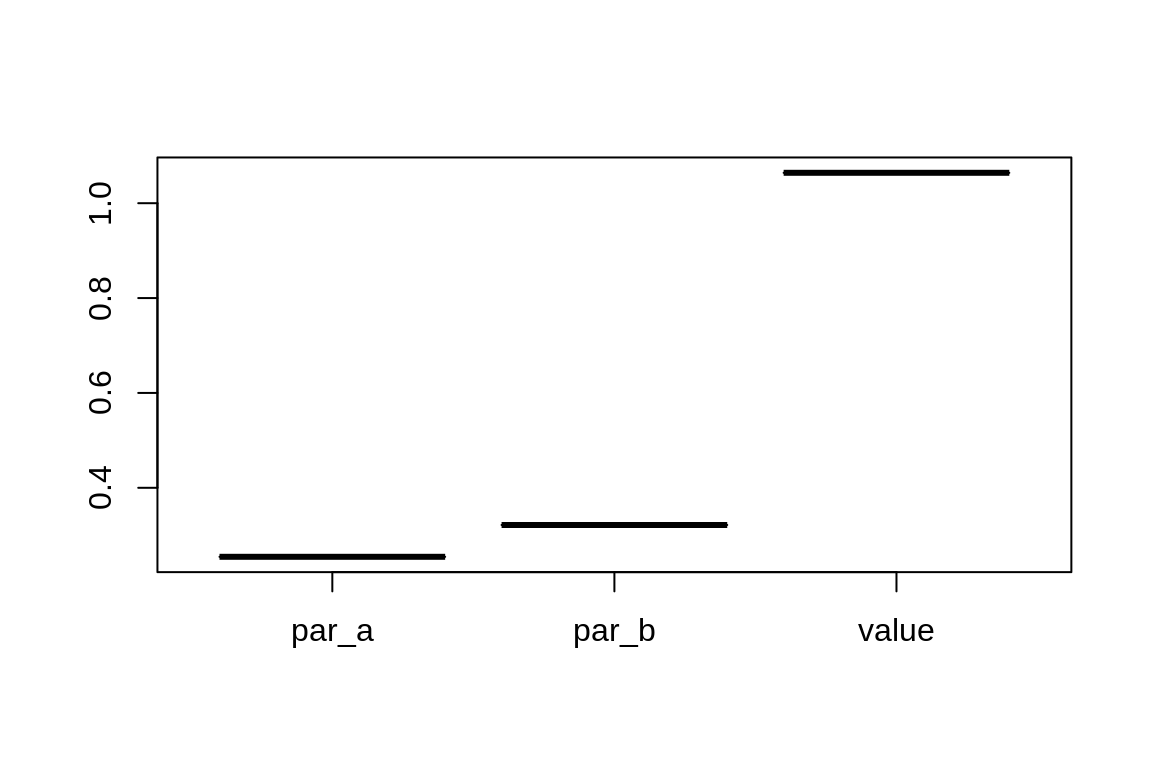
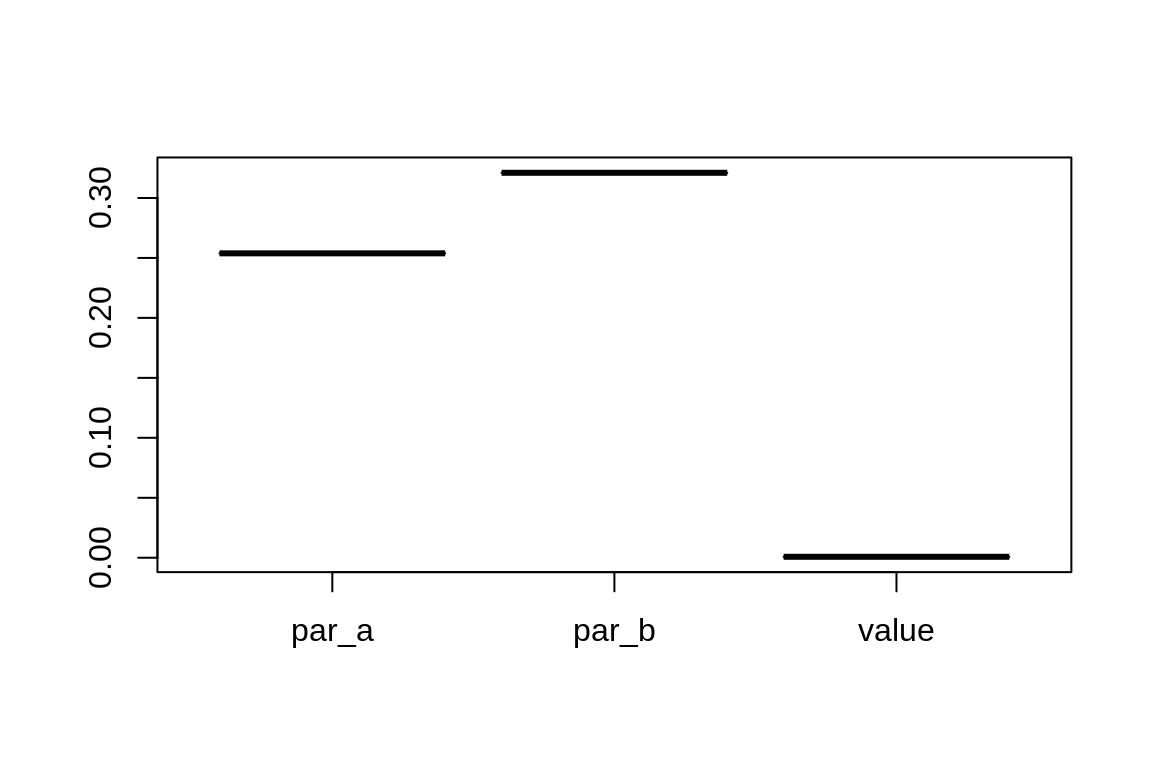
Update stats (55)

diff --git a/articles/edma03-parametric.html b/articles/edma03-parametric.html
@@ -203,15 +203,15 @@
 <p>We can compare the estimates with our known parameters, because we used simulation, thus we know the truth. This is not the case for real cases, but this way we can check if our methods work. These are the individual parameters that make up the SigmaK matrix:</p>
 <div class="sourceCode" id="cb9"><pre class="sourceCode r"><code class="sourceCode r"><a class="sourceLine" id="cb9-1" data-line-number="1"><span class="kw"><a href="https://rdrr.io/r/base/cbind.html">cbind</a></span>(<span class="dt">true=</span>parm, <span class="dt">est=</span>o<span class="op">$</span>results<span class="op">$</span>par)</a>
 <a class="sourceLine" id="cb9-2" data-line-number="2"><span class="co">#&gt;   true       est</span></a>
-<a class="sourceLine" id="cb9-3" data-line-number="3"><span class="co">#&gt; a 0.25 0.2545125</span></a>
-<a class="sourceLine" id="cb9-4" data-line-number="4"><span class="co">#&gt; b 0.35 0.3216170</span></a></code></pre></div>
+<a class="sourceLine" id="cb9-3" data-line-number="3"><span class="co">#&gt; a 0.25 0.2539084</span></a>
+<a class="sourceLine" id="cb9-4" data-line-number="4"><span class="co">#&gt; b 0.35 0.3209651</span></a></code></pre></div>
 <p>And this is our estimated SigmaK matrix:</p>
 <div class="sourceCode" id="cb10"><pre class="sourceCode r"><code class="sourceCode r"><a class="sourceLine" id="cb10-1" data-line-number="1"><span class="kw"><a href="https://rdrr.io/pkg/EDMAinR/man/SigmaK_fit.html">SigmaK</a></span>(o)</a>
-<a class="sourceLine" id="cb10-2" data-line-number="2"><span class="co">#&gt;           L1        L2       L3       L4</span></a>
-<a class="sourceLine" id="cb10-3" data-line-number="3"><span class="co">#&gt; L1 0.2545125 0.0000000 0.000000 0.000000</span></a>
-<a class="sourceLine" id="cb10-4" data-line-number="4"><span class="co">#&gt; L2 0.0000000 0.2545125 0.000000 0.000000</span></a>
-<a class="sourceLine" id="cb10-5" data-line-number="5"><span class="co">#&gt; L3 0.0000000 0.0000000 0.321617 0.000000</span></a>
-<a class="sourceLine" id="cb10-6" data-line-number="6"><span class="co">#&gt; L4 0.0000000 0.0000000 0.000000 0.321617</span></a></code></pre></div>
+<a class="sourceLine" id="cb10-2" data-line-number="2"><span class="co">#&gt;           L1        L2        L3        L4</span></a>
+<a class="sourceLine" id="cb10-3" data-line-number="3"><span class="co">#&gt; L1 0.2539084 0.0000000 0.0000000 0.0000000</span></a>
+<a class="sourceLine" id="cb10-4" data-line-number="4"><span class="co">#&gt; L2 0.0000000 0.2539084 0.0000000 0.0000000</span></a>
+<a class="sourceLine" id="cb10-5" data-line-number="5"><span class="co">#&gt; L3 0.0000000 0.0000000 0.3209651 0.0000000</span></a>
+<a class="sourceLine" id="cb10-6" data-line-number="6"><span class="co">#&gt; L4 0.0000000 0.0000000 0.0000000 0.3209651</span></a></code></pre></div>
 </div>
 <div id="sensitivity-analysis" class="section level2">
 <h2 class="hasAnchor">
@@ -220,27 +220,27 @@
 <p>To check the sensitivity using the aptly named <code>sensitivity</code> function. This function re-estimates the SigmaK matrix multiple times with random starting values for numerical optimization. The result is a matrix with estimates of each parameter as columns. The last column contains the value of the loss function (used in the optimization) evaluated at the parameter values in that row. The rows represent the original estimates and the 10 re-estimated sets of values. The number of replicates can be increased further:</p>
 <div class="sourceCode" id="cb11"><pre class="sourceCode r"><code class="sourceCode r"><a class="sourceLine" id="cb11-1" data-line-number="1">s &lt;-<span class="st"> </span><span class="kw"><a href="https://rdrr.io/pkg/EDMAinR/man/SigmaK_fit.html">sensitivity</a></span>(o, <span class="dv">10</span>)</a>
 <a class="sourceLine" id="cb11-2" data-line-number="2">s</a>
-<a class="sourceLine" id="cb11-3" data-line-number="3"><span class="co">#&gt;           par_a     par_b    value</span></a>
-<a class="sourceLine" id="cb11-4" data-line-number="4"><span class="co">#&gt;  [1,] 0.2545125 0.3216170 1.064001</span></a>
-<a class="sourceLine" id="cb11-5" data-line-number="5"><span class="co">#&gt;  [2,] 0.2545119 0.3216142 1.064062</span></a>
-<a class="sourceLine" id="cb11-6" data-line-number="6"><span class="co">#&gt;  [3,] 0.2545122 0.3216162 1.064002</span></a>
-<a class="sourceLine" id="cb11-7" data-line-number="7"><span class="co">#&gt;  [4,] 0.2545123 0.3216167 1.063986</span></a>
-<a class="sourceLine" id="cb11-8" data-line-number="8"><span class="co">#&gt;  [5,] 0.2545122 0.3216163 1.063999</span></a>
-<a class="sourceLine" id="cb11-9" data-line-number="9"><span class="co">#&gt;  [6,] 0.2545116 0.3216151 1.064047</span></a>
-<a class="sourceLine" id="cb11-10" data-line-number="10"><span class="co">#&gt;  [7,] 0.2545116 0.3216150 1.064049</span></a>
-<a class="sourceLine" id="cb11-11" data-line-number="11"><span class="co">#&gt;  [8,] 0.2545114 0.3216167 1.064008</span></a>
-<a class="sourceLine" id="cb11-12" data-line-number="12"><span class="co">#&gt;  [9,] 0.2545121 0.3216168 1.063997</span></a>
-<a class="sourceLine" id="cb11-13" data-line-number="13"><span class="co">#&gt; [10,] 0.2545122 0.3216167 1.063989</span></a>
-<a class="sourceLine" id="cb11-14" data-line-number="14"><span class="co">#&gt; [11,] 0.2545129 0.3216173 1.064020</span></a></code></pre></div>
+<a class="sourceLine" id="cb11-3" data-line-number="3"><span class="co">#&gt;           par_a     par_b        value</span></a>
+<a class="sourceLine" id="cb11-4" data-line-number="4"><span class="co">#&gt;  [1,] 0.2539084 0.3209651 0.0007728197</span></a>
+<a class="sourceLine" id="cb11-5" data-line-number="5"><span class="co">#&gt;  [2,] 0.2538729 0.3210012 0.0007728189</span></a>
+<a class="sourceLine" id="cb11-6" data-line-number="6"><span class="co">#&gt;  [3,] 0.2538583 0.3209854 0.0007728177</span></a>
+<a class="sourceLine" id="cb11-7" data-line-number="7"><span class="co">#&gt;  [4,] 0.2538704 0.3209634 0.0007728175</span></a>
+<a class="sourceLine" id="cb11-8" data-line-number="8"><span class="co">#&gt;  [5,] 0.2538549 0.3209625 0.0007728176</span></a>
+<a class="sourceLine" id="cb11-9" data-line-number="9"><span class="co">#&gt;  [6,] 0.2538258 0.3209865 0.0007728194</span></a>
+<a class="sourceLine" id="cb11-10" data-line-number="10"><span class="co">#&gt;  [7,] 0.2538159 0.3209421 0.0007728220</span></a>
+<a class="sourceLine" id="cb11-11" data-line-number="11"><span class="co">#&gt;  [8,] 0.2538349 0.3209740 0.0007728185</span></a>
+<a class="sourceLine" id="cb11-12" data-line-number="12"><span class="co">#&gt;  [9,] 0.2538266 0.3209903 0.0007728194</span></a>
+<a class="sourceLine" id="cb11-13" data-line-number="13"><span class="co">#&gt; [10,] 0.2538954 0.3209989 0.0007728202</span></a>
+<a class="sourceLine" id="cb11-14" data-line-number="14"><span class="co">#&gt; [11,] 0.2538312 0.3210041 0.0007728198</span></a></code></pre></div>
 <p>When we look at the results and see that the estimates are very similar (5th digit differences), this indicates that the parameters are identifiable. We can do this via the <code>summary</code> function or by looking at the <code>boxplot</code>:</p>
 <div class="sourceCode" id="cb12"><pre class="sourceCode r"><code class="sourceCode r"><a class="sourceLine" id="cb12-1" data-line-number="1"><span class="kw"><a href="https://rdrr.io/r/base/summary.html">summary</a></span>(s)</a>
-<a class="sourceLine" id="cb12-2" data-line-number="2"><span class="co">#&gt;      par_a            par_b            value      </span></a>
-<a class="sourceLine" id="cb12-3" data-line-number="3"><span class="co">#&gt;  Min.   :0.2545   Min.   :0.3216   Min.   :1.064  </span></a>
-<a class="sourceLine" id="cb12-4" data-line-number="4"><span class="co">#&gt;  1st Qu.:0.2545   1st Qu.:0.3216   1st Qu.:1.064  </span></a>
-<a class="sourceLine" id="cb12-5" data-line-number="5"><span class="co">#&gt;  Median :0.2545   Median :0.3216   Median :1.064  </span></a>
-<a class="sourceLine" id="cb12-6" data-line-number="6"><span class="co">#&gt;  Mean   :0.2545   Mean   :0.3216   Mean   :1.064  </span></a>
-<a class="sourceLine" id="cb12-7" data-line-number="7"><span class="co">#&gt;  3rd Qu.:0.2545   3rd Qu.:0.3216   3rd Qu.:1.064  </span></a>
-<a class="sourceLine" id="cb12-8" data-line-number="8"><span class="co">#&gt;  Max.   :0.2545   Max.   :0.3216   Max.   :1.064</span></a>
+<a class="sourceLine" id="cb12-2" data-line-number="2"><span class="co">#&gt;      par_a            par_b            value          </span></a>
+<a class="sourceLine" id="cb12-3" data-line-number="3"><span class="co">#&gt;  Min.   :0.2538   Min.   :0.3209   Min.   :0.0007728  </span></a>
+<a class="sourceLine" id="cb12-4" data-line-number="4"><span class="co">#&gt;  1st Qu.:0.2538   1st Qu.:0.3210   1st Qu.:0.0007728  </span></a>
+<a class="sourceLine" id="cb12-5" data-line-number="5"><span class="co">#&gt;  Median :0.2539   Median :0.3210   Median :0.0007728  </span></a>
+<a class="sourceLine" id="cb12-6" data-line-number="6"><span class="co">#&gt;  Mean   :0.2539   Mean   :0.3210   Mean   :0.0007728  </span></a>
+<a class="sourceLine" id="cb12-7" data-line-number="7"><span class="co">#&gt;  3rd Qu.:0.2539   3rd Qu.:0.3210   3rd Qu.:0.0007728  </span></a>
+<a class="sourceLine" id="cb12-8" data-line-number="8"><span class="co">#&gt;  Max.   :0.2539   Max.   :0.3210   Max.   :0.0007728</span></a>
 <a class="sourceLine" id="cb12-9" data-line-number="9"><span class="kw"><a href="https://rdrr.io/r/graphics/boxplot.html">boxplot</a></span>(s)</a></code></pre></div>
 <p><img src="edma03-parametric_files/figure-html/unnamed-chunk-12-1.png" width="576"></p>
 </div>
@@ -282,37 +282,37 @@
 <p>The estimates are pretty far off from the true values:</p>
 <div class="sourceCode" id="cb17"><pre class="sourceCode r"><code class="sourceCode r"><a class="sourceLine" id="cb17-1" data-line-number="1"><span class="kw"><a href="https://rdrr.io/r/base/cbind.html">cbind</a></span>(<span class="dt">true=</span>parm, <span class="dt">est=</span>o<span class="op">$</span>results<span class="op">$</span>par)</a>
 <a class="sourceLine" id="cb17-2" data-line-number="2"><span class="co">#&gt;   true       est</span></a>
-<a class="sourceLine" id="cb17-3" data-line-number="3"><span class="co">#&gt; a 0.25 0.2923992</span></a>
-<a class="sourceLine" id="cb17-4" data-line-number="4"><span class="co">#&gt; b 0.07 0.1156618</span></a>
+<a class="sourceLine" id="cb17-3" data-line-number="3"><span class="co">#&gt; a 0.25 0.2871702</span></a>
+<a class="sourceLine" id="cb17-4" data-line-number="4"><span class="co">#&gt; b 0.07 0.1096243</span></a>
 <a class="sourceLine" id="cb17-5" data-line-number="5"><span class="kw"><a href="https://rdrr.io/pkg/EDMAinR/man/SigmaK_fit.html">SigmaK</a></span>(o)</a>
 <a class="sourceLine" id="cb17-6" data-line-number="6"><span class="co">#&gt;           L1        L2        L3        L4</span></a>
-<a class="sourceLine" id="cb17-7" data-line-number="7"><span class="co">#&gt; L1 0.2923992 0.1156618 0.1156618 0.1156618</span></a>
-<a class="sourceLine" id="cb17-8" data-line-number="8"><span class="co">#&gt; L2 0.1156618 0.2923992 0.1156618 0.1156618</span></a>
-<a class="sourceLine" id="cb17-9" data-line-number="9"><span class="co">#&gt; L3 0.1156618 0.1156618 0.2923992 0.1156618</span></a>
-<a class="sourceLine" id="cb17-10" data-line-number="10"><span class="co">#&gt; L4 0.1156618 0.1156618 0.1156618 0.2923992</span></a></code></pre></div>
+<a class="sourceLine" id="cb17-7" data-line-number="7"><span class="co">#&gt; L1 0.2871702 0.1096243 0.1096243 0.1096243</span></a>
+<a class="sourceLine" id="cb17-8" data-line-number="8"><span class="co">#&gt; L2 0.1096243 0.2871702 0.1096243 0.1096243</span></a>
+<a class="sourceLine" id="cb17-9" data-line-number="9"><span class="co">#&gt; L3 0.1096243 0.1096243 0.2871702 0.1096243</span></a>
+<a class="sourceLine" id="cb17-10" data-line-number="10"><span class="co">#&gt; L4 0.1096243 0.1096243 0.1096243 0.2871702</span></a></code></pre></div>
 <p>If we now do the sensitivity analysis, we see all kinds of estimates while all leading to the same loss function value. This a clear indication of non-estimability:</p>
 <div class="sourceCode" id="cb18"><pre class="sourceCode r"><code class="sourceCode r"><a class="sourceLine" id="cb18-1" data-line-number="1">s &lt;-<span class="st"> </span><span class="kw"><a href="https://rdrr.io/pkg/EDMAinR/man/SigmaK_fit.html">sensitivity</a></span>(o)</a>
 <a class="sourceLine" id="cb18-2" data-line-number="2">s</a>
-<a class="sourceLine" id="cb18-3" data-line-number="3"><span class="co">#&gt;           par_a       par_b     value</span></a>
-<a class="sourceLine" id="cb18-4" data-line-number="4"><span class="co">#&gt;  [1,] 0.2923992  0.11566176 0.6358414</span></a>
-<a class="sourceLine" id="cb18-5" data-line-number="5"><span class="co">#&gt;  [2,] 0.4636409  0.28690340 0.6358328</span></a>
-<a class="sourceLine" id="cb18-6" data-line-number="6"><span class="co">#&gt;  [3,] 0.1419210 -0.03481663 0.6358236</span></a>
-<a class="sourceLine" id="cb18-7" data-line-number="7"><span class="co">#&gt;  [4,] 0.1885673  0.01182971 0.6358236</span></a>
-<a class="sourceLine" id="cb18-8" data-line-number="8"><span class="co">#&gt;  [5,] 0.1964769  0.01973927 0.6358236</span></a>
-<a class="sourceLine" id="cb18-9" data-line-number="9"><span class="co">#&gt;  [6,] 0.1943816  0.01764399 0.6358236</span></a>
-<a class="sourceLine" id="cb18-10" data-line-number="10"><span class="co">#&gt;  [7,] 0.1203786 -0.05635896 0.6358249</span></a>
-<a class="sourceLine" id="cb18-11" data-line-number="11"><span class="co">#&gt;  [8,] 0.2623074  0.08556985 0.6358276</span></a>
-<a class="sourceLine" id="cb18-12" data-line-number="12"><span class="co">#&gt;  [9,] 0.3679950  0.19125757 0.6358373</span></a>
-<a class="sourceLine" id="cb18-13" data-line-number="13"><span class="co">#&gt; [10,] 0.1174071 -0.05933051 0.6358244</span></a>
-<a class="sourceLine" id="cb18-14" data-line-number="14"><span class="co">#&gt; [11,] 0.5896452  0.41290750 0.6358323</span></a>
+<a class="sourceLine" id="cb18-3" data-line-number="3"><span class="co">#&gt;           par_a       par_b        value</span></a>
+<a class="sourceLine" id="cb18-4" data-line-number="4"><span class="co">#&gt;  [1,] 0.2871702  0.10962428 0.0003358588</span></a>
+<a class="sourceLine" id="cb18-5" data-line-number="5"><span class="co">#&gt;  [2,] 0.4668093  0.28925612 0.0003358596</span></a>
+<a class="sourceLine" id="cb18-6" data-line-number="6"><span class="co">#&gt;  [3,] 0.1430023 -0.03452708 0.0003358583</span></a>
+<a class="sourceLine" id="cb18-7" data-line-number="7"><span class="co">#&gt;  [4,] 0.1883117  0.01077916 0.0003358582</span></a>
+<a class="sourceLine" id="cb18-8" data-line-number="8"><span class="co">#&gt;  [5,] 0.1958401  0.01830934 0.0003358582</span></a>
+<a class="sourceLine" id="cb18-9" data-line-number="9"><span class="co">#&gt;  [6,] 0.1949330  0.01739788 0.0003358583</span></a>
+<a class="sourceLine" id="cb18-10" data-line-number="10"><span class="co">#&gt;  [7,] 0.1184738 -0.05903101 0.0003358604</span></a>
+<a class="sourceLine" id="cb18-11" data-line-number="11"><span class="co">#&gt;  [8,] 0.2589918  0.08146353 0.0003358583</span></a>
+<a class="sourceLine" id="cb18-12" data-line-number="12"><span class="co">#&gt;  [9,] 0.3590700  0.18152654 0.0003358586</span></a>
+<a class="sourceLine" id="cb18-13" data-line-number="13"><span class="co">#&gt; [10,] 0.1187325 -0.05879193 0.0003358584</span></a>
+<a class="sourceLine" id="cb18-14" data-line-number="14"><span class="co">#&gt; [11,] 0.5828245  0.40531593 0.0003358599</span></a>
 <a class="sourceLine" id="cb18-15" data-line-number="15"><span class="kw"><a href="https://rdrr.io/r/base/summary.html">summary</a></span>(s)</a>
-<a class="sourceLine" id="cb18-16" data-line-number="16"><span class="co">#&gt;      par_a            par_b              value       </span></a>
-<a class="sourceLine" id="cb18-17" data-line-number="17"><span class="co">#&gt;  Min.   :0.1174   Min.   :-0.05933   Min.   :0.6358  </span></a>
-<a class="sourceLine" id="cb18-18" data-line-number="18"><span class="co">#&gt;  1st Qu.:0.1652   1st Qu.:-0.01149   1st Qu.:0.6358  </span></a>
-<a class="sourceLine" id="cb18-19" data-line-number="19"><span class="co">#&gt;  Median :0.1965   Median : 0.01974   Median :0.6358  </span></a>
-<a class="sourceLine" id="cb18-20" data-line-number="20"><span class="co">#&gt;  Mean   :0.2668   Mean   : 0.09009   Mean   :0.6358  </span></a>
-<a class="sourceLine" id="cb18-21" data-line-number="21"><span class="co">#&gt;  3rd Qu.:0.3302   3rd Qu.: 0.15346   3rd Qu.:0.6358  </span></a>
-<a class="sourceLine" id="cb18-22" data-line-number="22"><span class="co">#&gt;  Max.   :0.5896   Max.   : 0.41291   Max.   :0.6358</span></a>
+<a class="sourceLine" id="cb18-16" data-line-number="16"><span class="co">#&gt;      par_a            par_b              value          </span></a>
+<a class="sourceLine" id="cb18-17" data-line-number="17"><span class="co">#&gt;  Min.   :0.1185   Min.   :-0.05903   Min.   :0.0003359  </span></a>
+<a class="sourceLine" id="cb18-18" data-line-number="18"><span class="co">#&gt;  1st Qu.:0.1657   1st Qu.:-0.01187   1st Qu.:0.0003359  </span></a>
+<a class="sourceLine" id="cb18-19" data-line-number="19"><span class="co">#&gt;  Median :0.1958   Median : 0.01831   Median :0.0003359  </span></a>
+<a class="sourceLine" id="cb18-20" data-line-number="20"><span class="co">#&gt;  Mean   :0.2649   Mean   : 0.08739   Mean   :0.0003359  </span></a>
+<a class="sourceLine" id="cb18-21" data-line-number="21"><span class="co">#&gt;  3rd Qu.:0.3231   3rd Qu.: 0.14558   3rd Qu.:0.0003359  </span></a>
+<a class="sourceLine" id="cb18-22" data-line-number="22"><span class="co">#&gt;  Max.   :0.5828   Max.   : 0.40532   Max.   :0.0003359</span></a>
 <a class="sourceLine" id="cb18-23" data-line-number="23"><span class="kw"><a href="https://rdrr.io/r/graphics/boxplot.html">boxplot</a></span>(s)</a></code></pre></div>
 <p><img src="edma03-parametric_files/figure-html/unnamed-chunk-18-1.png" width="576"></p>
 </div>
@@ -326,6 +326,73 @@
 <li>use the <code>SigmaK_fit</code> to estimate SigmaK using the non-parametric fit and the pattern matrix,</li>
 <li>make sure the results are estimable by running <code>sensitivity</code> analysis.</li>
 </ol>
+</div>
+<div id="more-examples" class="section level2">
+<h2 class="hasAnchor">
+<a href="#more-examples" class="anchor"></a>More examples</h2>
+<div class="sourceCode" id="cb19"><pre class="sourceCode r"><code class="sourceCode r"><a class="sourceLine" id="cb19-1" data-line-number="1">parm &lt;-<span class="st"> </span><span class="kw"><a href="https://rdrr.io/r/base/c.html">c</a></span>(<span class="dt">a=</span><span class="fl">0.25</span>, <span class="dt">b=</span><span class="fl">0.07</span>, <span class="dt">c=</span><span class="fl">0.1</span>, <span class="dt">d=</span><span class="fl">0.15</span>)</a>
+<a class="sourceLine" id="cb19-2" data-line-number="2">m &lt;-<span class="st"> </span><span class="kw"><a href="https://rdrr.io/r/base/matrix.html">matrix</a></span>(<span class="kw"><a href="https://rdrr.io/r/base/c.html">c</a></span>(</a>
+<a class="sourceLine" id="cb19-3" data-line-number="3">    <span class="st">"a"</span>, <span class="ot">NA</span>, <span class="ot">NA</span>, <span class="ot">NA</span>,</a>
+<a class="sourceLine" id="cb19-4" data-line-number="4">    <span class="ot">NA</span>, <span class="st">"b"</span>, <span class="ot">NA</span>, <span class="ot">NA</span>,</a>
+<a class="sourceLine" id="cb19-5" data-line-number="5">    <span class="ot">NA</span>, <span class="ot">NA</span>, <span class="st">"c"</span>, <span class="ot">NA</span>,</a>
+<a class="sourceLine" id="cb19-6" data-line-number="6">    <span class="ot">NA</span>, <span class="ot">NA</span>, <span class="ot">NA</span>, <span class="st">"d"</span></a>
+<a class="sourceLine" id="cb19-7" data-line-number="7">), <span class="dv">4</span>, <span class="dv">4</span>, <span class="dt">byrow=</span><span class="ot">TRUE</span>)</a>
+<a class="sourceLine" id="cb19-8" data-line-number="8"></a>
+<a class="sourceLine" id="cb19-9" data-line-number="9">parm &lt;-<span class="st"> </span><span class="kw"><a href="https://rdrr.io/r/base/c.html">c</a></span>(<span class="dt">a=</span><span class="fl">0.25</span>)</a>
+<a class="sourceLine" id="cb19-10" data-line-number="10">m &lt;-<span class="st"> </span><span class="kw"><a href="https://rdrr.io/r/base/matrix.html">matrix</a></span>(<span class="kw"><a href="https://rdrr.io/r/base/c.html">c</a></span>(</a>
+<a class="sourceLine" id="cb19-11" data-line-number="11">    <span class="st">"a"</span>, <span class="ot">NA</span>, <span class="ot">NA</span>, <span class="ot">NA</span>,</a>
+<a class="sourceLine" id="cb19-12" data-line-number="12">    <span class="ot">NA</span>, <span class="st">"a"</span>, <span class="ot">NA</span>, <span class="ot">NA</span>,</a>
+<a class="sourceLine" id="cb19-13" data-line-number="13">    <span class="ot">NA</span>, <span class="ot">NA</span>, <span class="st">"a"</span>, <span class="ot">NA</span>,</a>
+<a class="sourceLine" id="cb19-14" data-line-number="14">    <span class="ot">NA</span>, <span class="ot">NA</span>, <span class="ot">NA</span>, <span class="st">"a"</span></a>
+<a class="sourceLine" id="cb19-15" data-line-number="15">), <span class="dv">4</span>, <span class="dv">4</span>, <span class="dt">byrow=</span><span class="ot">TRUE</span>)</a>
+<a class="sourceLine" id="cb19-16" data-line-number="16">SigmaK &lt;-<span class="st"> </span>EDMAinR<span class="op">:::</span><span class="kw">.vec2mat</span>(parm, EDMAinR<span class="op">:::</span><span class="kw">.mat2fac</span>(m))</a>
+<a class="sourceLine" id="cb19-17" data-line-number="17">SigmaK</a>
+<a class="sourceLine" id="cb19-18" data-line-number="18"><span class="co">#&gt;      [,1] [,2] [,3] [,4]</span></a>
+<a class="sourceLine" id="cb19-19" data-line-number="19"><span class="co">#&gt; [1,] 0.25 0.00 0.00 0.00</span></a>
+<a class="sourceLine" id="cb19-20" data-line-number="20"><span class="co">#&gt; [2,] 0.00 0.25 0.00 0.00</span></a>
+<a class="sourceLine" id="cb19-21" data-line-number="21"><span class="co">#&gt; [3,] 0.00 0.00 0.25 0.00</span></a>
+<a class="sourceLine" id="cb19-22" data-line-number="22"><span class="co">#&gt; [4,] 0.00 0.00 0.00 0.25</span></a>
+<a class="sourceLine" id="cb19-23" data-line-number="23">sim &lt;-<span class="st"> </span><span class="kw"><a href="https://rdrr.io/pkg/EDMAinR/man/edma_data.html">edma_simulate_data</a></span>(<span class="dt">n=</span><span class="dv">500</span>, M, SigmaK)</a>
+<a class="sourceLine" id="cb19-24" data-line-number="24"><span class="kw"><a href="https://rdrr.io/r/base/dimnames.html">dimnames</a></span>(M) &lt;-<span class="st"> </span><span class="kw"><a href="https://rdrr.io/r/base/dimnames.html">dimnames</a></span>(sim<span class="op">$</span>data[[1L]])</a>
+<a class="sourceLine" id="cb19-25" data-line-number="25"><span class="kw"><a href="https://rdrr.io/r/base/colnames.html">rownames</a></span>(SigmaK) &lt;-<span class="st"> </span><span class="kw"><a href="https://rdrr.io/r/base/colnames.html">rownames</a></span>(m) &lt;-<span class="st"> </span><span class="kw"><a href="https://rdrr.io/r/base/colnames.html">rownames</a></span>(sim<span class="op">$</span>data[[1L]])</a>
+<a class="sourceLine" id="cb19-26" data-line-number="26"><span class="kw"><a href="https://rdrr.io/r/base/colnames.html">colnames</a></span>(SigmaK) &lt;-<span class="st"> </span><span class="kw"><a href="https://rdrr.io/r/base/colnames.html">colnames</a></span>(m) &lt;-<span class="st"> </span><span class="kw"><a href="https://rdrr.io/r/base/colnames.html">rownames</a></span>(sim<span class="op">$</span>data[[1L]])</a>
+<a class="sourceLine" id="cb19-27" data-line-number="27">fit &lt;-<span class="st"> </span><span class="kw"><a href="https://rdrr.io/pkg/EDMAinR/man/edma_fit.html">edma_fit</a></span>(sim)</a>
+<a class="sourceLine" id="cb19-28" data-line-number="28"><span class="kw"><a href="https://rdrr.io/r/base/try.html">try</a></span>(<span class="kw"><a href="https://rdrr.io/pkg/EDMAinR/man/SigmaK_fit.html">SigmaK_fit</a></span>(fit, m))</a>
+<a class="sourceLine" id="cb19-29" data-line-number="29"><span class="co">#&gt; EDMA parametric fit: Simulated landmark data</span></a>
+<a class="sourceLine" id="cb19-30" data-line-number="30"><span class="co">#&gt; Call: SigmaK_fit(object = fit, pattern = m)</span></a>
+<a class="sourceLine" id="cb19-31" data-line-number="31"><span class="co">#&gt; 2 dimensions, 4 landmarks, 500 replicates, no bootstrap</span></a>
+<a class="sourceLine" id="cb19-32" data-line-number="32">o &lt;-<span class="st"> </span><span class="kw"><a href="https://rdrr.io/pkg/EDMAinR/man/SigmaK_fit.html">SigmaK_fit</a></span>(fit, m, <span class="dt">check_pattern=</span><span class="ot">FALSE</span>)</a>
+<a class="sourceLine" id="cb19-33" data-line-number="33"><span class="kw"><a href="https://rdrr.io/r/base/cbind.html">cbind</a></span>(<span class="dt">true=</span>parm, <span class="dt">est=</span>o<span class="op">$</span>results<span class="op">$</span>par)</a>
+<a class="sourceLine" id="cb19-34" data-line-number="34"><span class="co">#&gt;   true       est</span></a>
+<a class="sourceLine" id="cb19-35" data-line-number="35"><span class="co">#&gt; a 0.25 0.2621552</span></a>
+<a class="sourceLine" id="cb19-36" data-line-number="36"><span class="kw"><a href="https://rdrr.io/pkg/EDMAinR/man/SigmaK_fit.html">SigmaK</a></span>(o)</a>
+<a class="sourceLine" id="cb19-37" data-line-number="37"><span class="co">#&gt;           L1        L2        L3        L4</span></a>
+<a class="sourceLine" id="cb19-38" data-line-number="38"><span class="co">#&gt; L1 0.2621552 0.0000000 0.0000000 0.0000000</span></a>
+<a class="sourceLine" id="cb19-39" data-line-number="39"><span class="co">#&gt; L2 0.0000000 0.2621552 0.0000000 0.0000000</span></a>
+<a class="sourceLine" id="cb19-40" data-line-number="40"><span class="co">#&gt; L3 0.0000000 0.0000000 0.2621552 0.0000000</span></a>
+<a class="sourceLine" id="cb19-41" data-line-number="41"><span class="co">#&gt; L4 0.0000000 0.0000000 0.0000000 0.2621552</span></a>
+<a class="sourceLine" id="cb19-42" data-line-number="42">s &lt;-<span class="st"> </span><span class="kw"><a href="https://rdrr.io/pkg/EDMAinR/man/SigmaK_fit.html">sensitivity</a></span>(o)</a>
+<a class="sourceLine" id="cb19-43" data-line-number="43">s</a>
+<a class="sourceLine" id="cb19-44" data-line-number="44"><span class="co">#&gt;           par_a        value</span></a>
+<a class="sourceLine" id="cb19-45" data-line-number="45"><span class="co">#&gt;  [1,] 0.2621552 0.0009197113</span></a>
+<a class="sourceLine" id="cb19-46" data-line-number="46"><span class="co">#&gt;  [2,] 0.2621652 0.0009197113</span></a>
+<a class="sourceLine" id="cb19-47" data-line-number="47"><span class="co">#&gt;  [3,] 0.2620782 0.0009197311</span></a>
+<a class="sourceLine" id="cb19-48" data-line-number="48"><span class="co">#&gt;  [4,] 0.2621649 0.0009197113</span></a>
+<a class="sourceLine" id="cb19-49" data-line-number="49"><span class="co">#&gt;  [5,] 0.2621224 0.0009197154</span></a>
+<a class="sourceLine" id="cb19-50" data-line-number="50"><span class="co">#&gt;  [6,] 0.2621621 0.0009197112</span></a>
+<a class="sourceLine" id="cb19-51" data-line-number="51"><span class="co">#&gt;  [7,] 0.2615984 0.0009206560</span></a>
+<a class="sourceLine" id="cb19-52" data-line-number="52"><span class="co">#&gt;  [8,] 0.2621012 0.0009197214</span></a>
+<a class="sourceLine" id="cb19-53" data-line-number="53"><span class="co">#&gt;  [9,] 0.2622331 0.0009197274</span></a>
+<a class="sourceLine" id="cb19-54" data-line-number="54"><span class="co">#&gt; [10,] 0.2621519 0.0009197114</span></a>
+<a class="sourceLine" id="cb19-55" data-line-number="55"><span class="co">#&gt; [11,] 0.2621334 0.0009197133</span></a>
+<a class="sourceLine" id="cb19-56" data-line-number="56"><span class="kw"><a href="https://rdrr.io/r/base/summary.html">summary</a></span>(s)</a>
+<a class="sourceLine" id="cb19-57" data-line-number="57"><span class="co">#&gt;      par_a            value          </span></a>
+<a class="sourceLine" id="cb19-58" data-line-number="58"><span class="co">#&gt;  Min.   :0.2616   Min.   :0.0009197  </span></a>
+<a class="sourceLine" id="cb19-59" data-line-number="59"><span class="co">#&gt;  1st Qu.:0.2621   1st Qu.:0.0009197  </span></a>
+<a class="sourceLine" id="cb19-60" data-line-number="60"><span class="co">#&gt;  Median :0.2622   Median :0.0009197  </span></a>
+<a class="sourceLine" id="cb19-61" data-line-number="61"><span class="co">#&gt;  Mean   :0.2621   Mean   :0.0009198  </span></a>
+<a class="sourceLine" id="cb19-62" data-line-number="62"><span class="co">#&gt;  3rd Qu.:0.2622   3rd Qu.:0.0009197  </span></a>
+<a class="sourceLine" id="cb19-63" data-line-number="63"><span class="co">#&gt;  Max.   :0.2622   Max.   :0.0009207</span></a></code></pre></div>
 </div>
   </div>
 
@@ -342,6 +409,7 @@
       <li><a href="#sensitivity-analysis">Sensitivity analysis</a></li>
       <li><a href="#non-estimability">Non-estimability</a></li>
       <li><a href="#summary">Summary</a></li>
+      <li><a href="#more-examples">More examples</a></li>
       </ul>
 </div>
       </div>

diff --git a/reference/SigmaK_fit.html b/reference/SigmaK_fit.html
@@ -262,21 +262,21 @@ University of Alberta, Edmonton, Alberta, Canada. Pp. 49.</p>
 #&gt; 2 dimensions, 4 landmarks, 500 replicates, no bootstrap</div><div class='input'>
 <span class='co'>## estimates</span>
 <span class='fu'><a href='https://rdrr.io/r/base/cbind.html'>cbind</a></span>(<span class='kw'>true</span><span class='kw'>=</span><span class='no'>parm</span>, <span class='kw'>est</span><span class='kw'>=</span><span class='no'>o</span>$<span class='no'>results</span>$<span class='no'>par</span>)</div><div class='output co'>#&gt;   true       est
-#&gt; a 0.25 0.2511162
-#&gt; b 0.35 0.3341726</div><div class='input'><span class='fu'>SigmaK</span>(<span class='no'>o</span>)</div><div class='output co'>#&gt;           L1        L2        L3        L4
-#&gt; L1 0.2511162 0.0000000 0.0000000 0.0000000
-#&gt; L2 0.0000000 0.2511162 0.0000000 0.0000000
-#&gt; L3 0.0000000 0.0000000 0.3341726 0.0000000
-#&gt; L4 0.0000000 0.0000000 0.0000000 0.3341726</div><div class='input'>
+#&gt; a 0.25 0.2540292
+#&gt; b 0.35 0.3262675</div><div class='input'><span class='fu'>SigmaK</span>(<span class='no'>o</span>)</div><div class='output co'>#&gt;           L1        L2        L3        L4
+#&gt; L1 0.2540292 0.0000000 0.0000000 0.0000000
+#&gt; L2 0.0000000 0.2540292 0.0000000 0.0000000
+#&gt; L3 0.0000000 0.0000000 0.3262675 0.0000000
+#&gt; L4 0.0000000 0.0000000 0.0000000 0.3262675</div><div class='input'>
 <span class='co'>## sensitivity</span>
 <span class='no'>s</span> <span class='kw'>&lt;-</span> <span class='fu'>sensitivity</span>(<span class='no'>o</span>)
-<span class='fu'><a href='https://rdrr.io/r/base/summary.html'>summary</a></span>(<span class='no'>s</span>)</div><div class='output co'>#&gt;      par_a            par_b            value      
-#&gt;  Min.   :0.2491   Min.   :0.3248   Min.   :1.201  
-#&gt;  1st Qu.:0.2520   1st Qu.:0.3313   1st Qu.:1.201  
-#&gt;  Median :0.2536   Median :0.3317   Median :1.201  
-#&gt;  Mean   :0.2534   Mean   :0.3319   Mean   :1.201  
-#&gt;  3rd Qu.:0.2540   3rd Qu.:0.3332   3rd Qu.:1.201  
-#&gt;  Max.   :0.2605   Max.   :0.3362   Max.   :1.201  </div></pre>
+<span class='fu'><a href='https://rdrr.io/r/base/summary.html'>summary</a></span>(<span class='no'>s</span>)</div><div class='output co'>#&gt;      par_a            par_b            value          
+#&gt;  Min.   :0.2540   Min.   :0.3262   Min.   :0.0006878  
+#&gt;  1st Qu.:0.2540   1st Qu.:0.3263   1st Qu.:0.0006878  
+#&gt;  Median :0.2540   Median :0.3263   Median :0.0006878  
+#&gt;  Mean   :0.2540   Mean   :0.3263   Mean   :0.0006878  
+#&gt;  3rd Qu.:0.2541   3rd Qu.:0.3263   3rd Qu.:0.0006878  
+#&gt;  Max.   :0.2541   Max.   :0.3263   Max.   :0.0006878  </div></pre>
   </div>
   <div class="col-md-3 hidden-xs hidden-sm" id="sidebar">
     <h2>Contents</h2>
